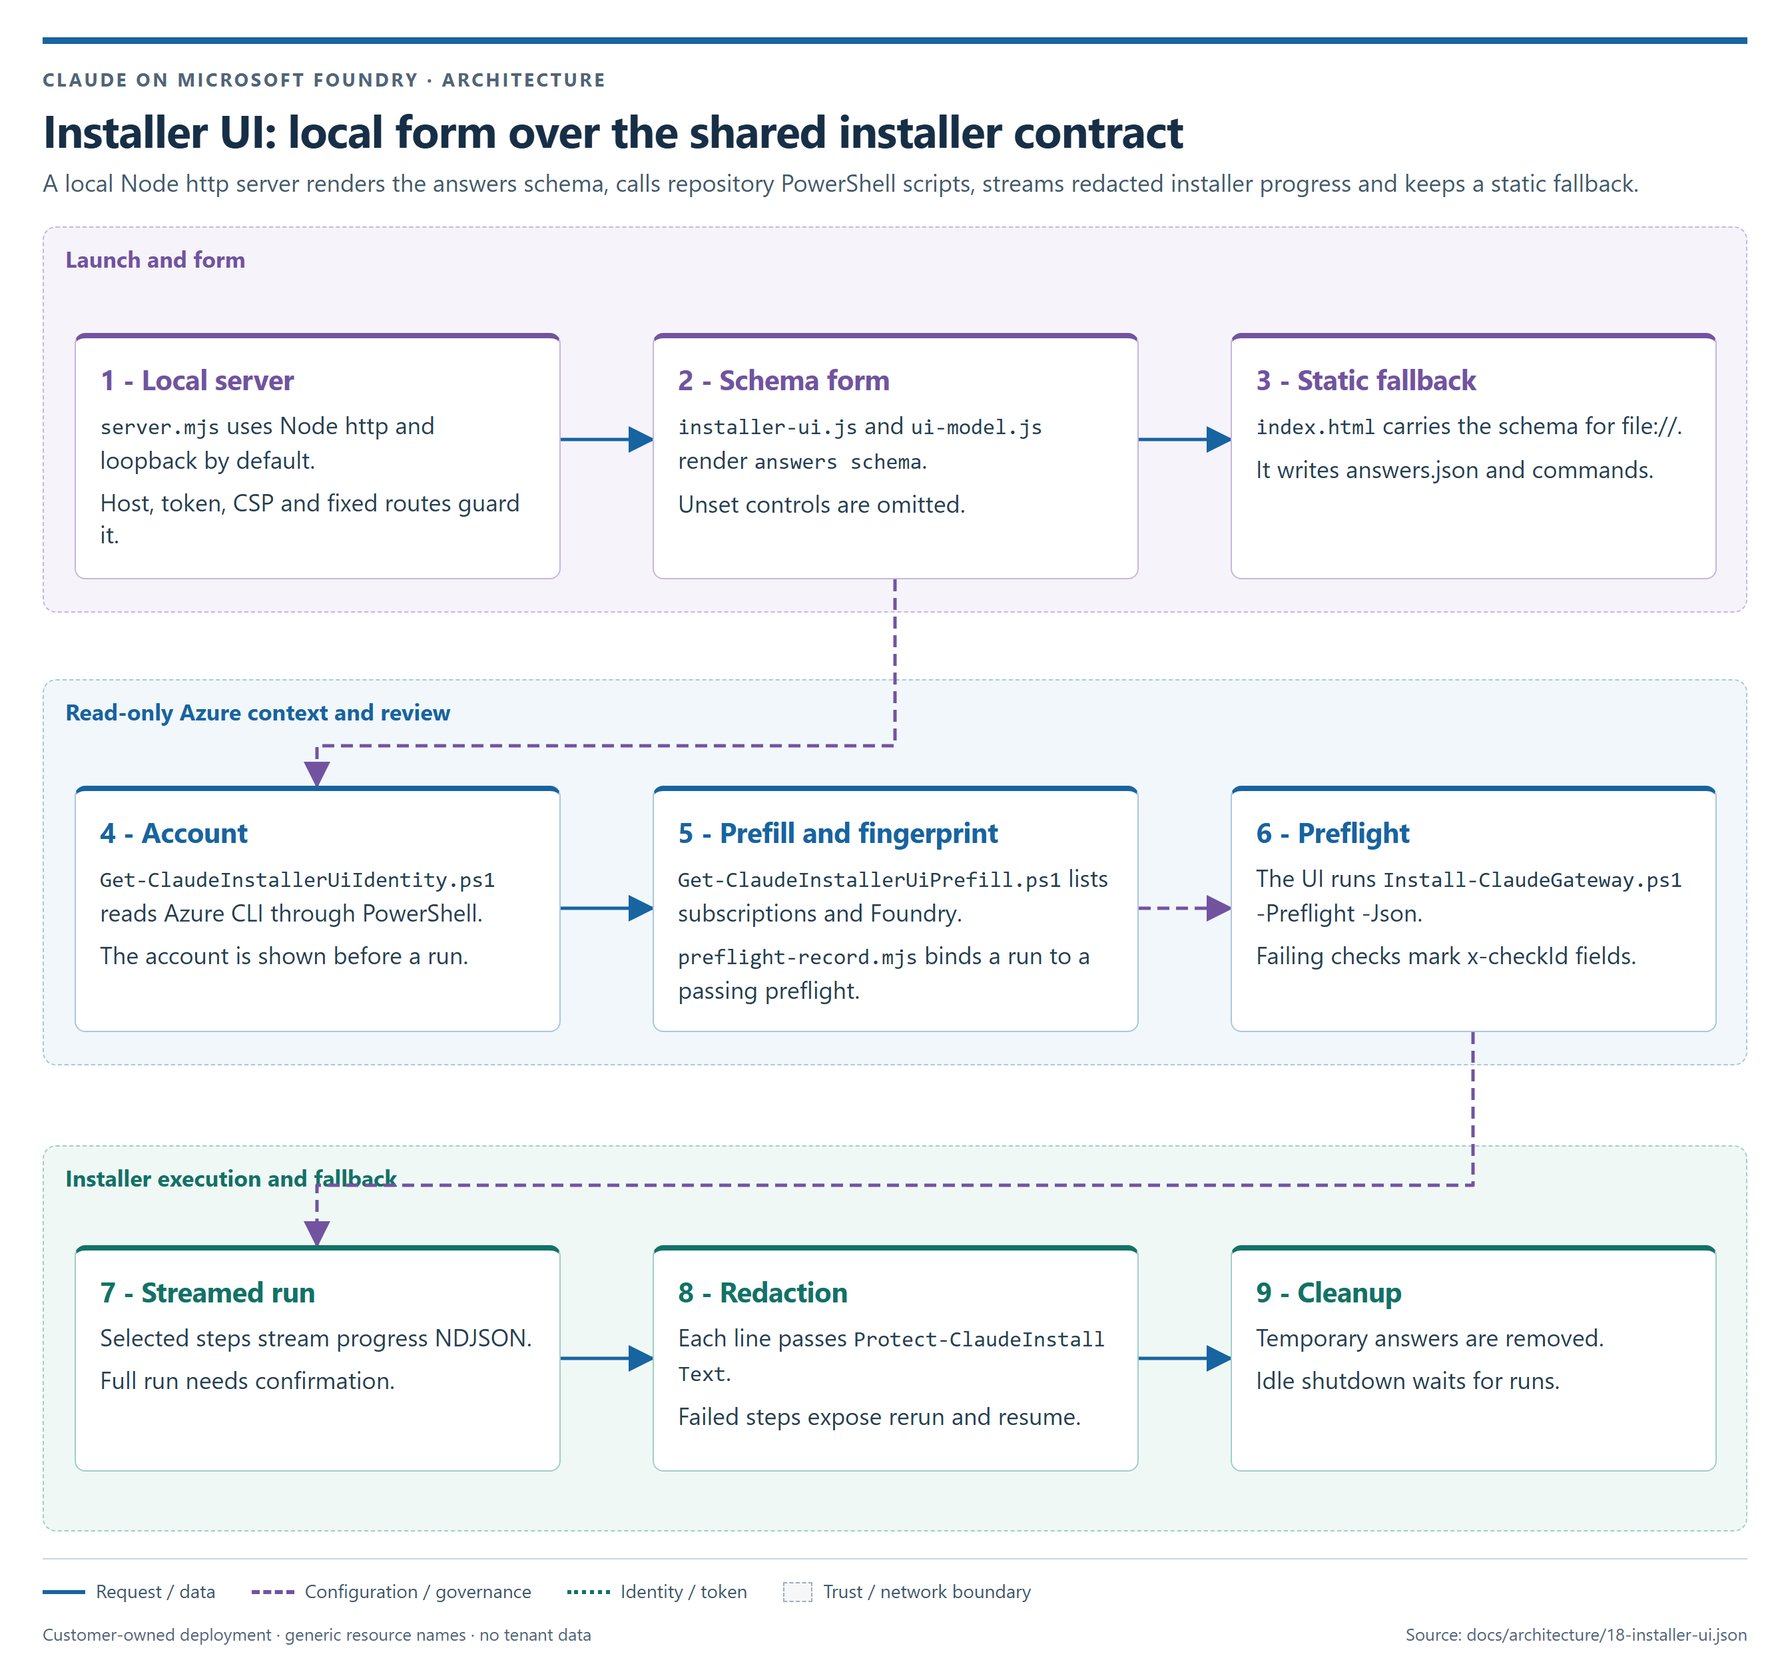
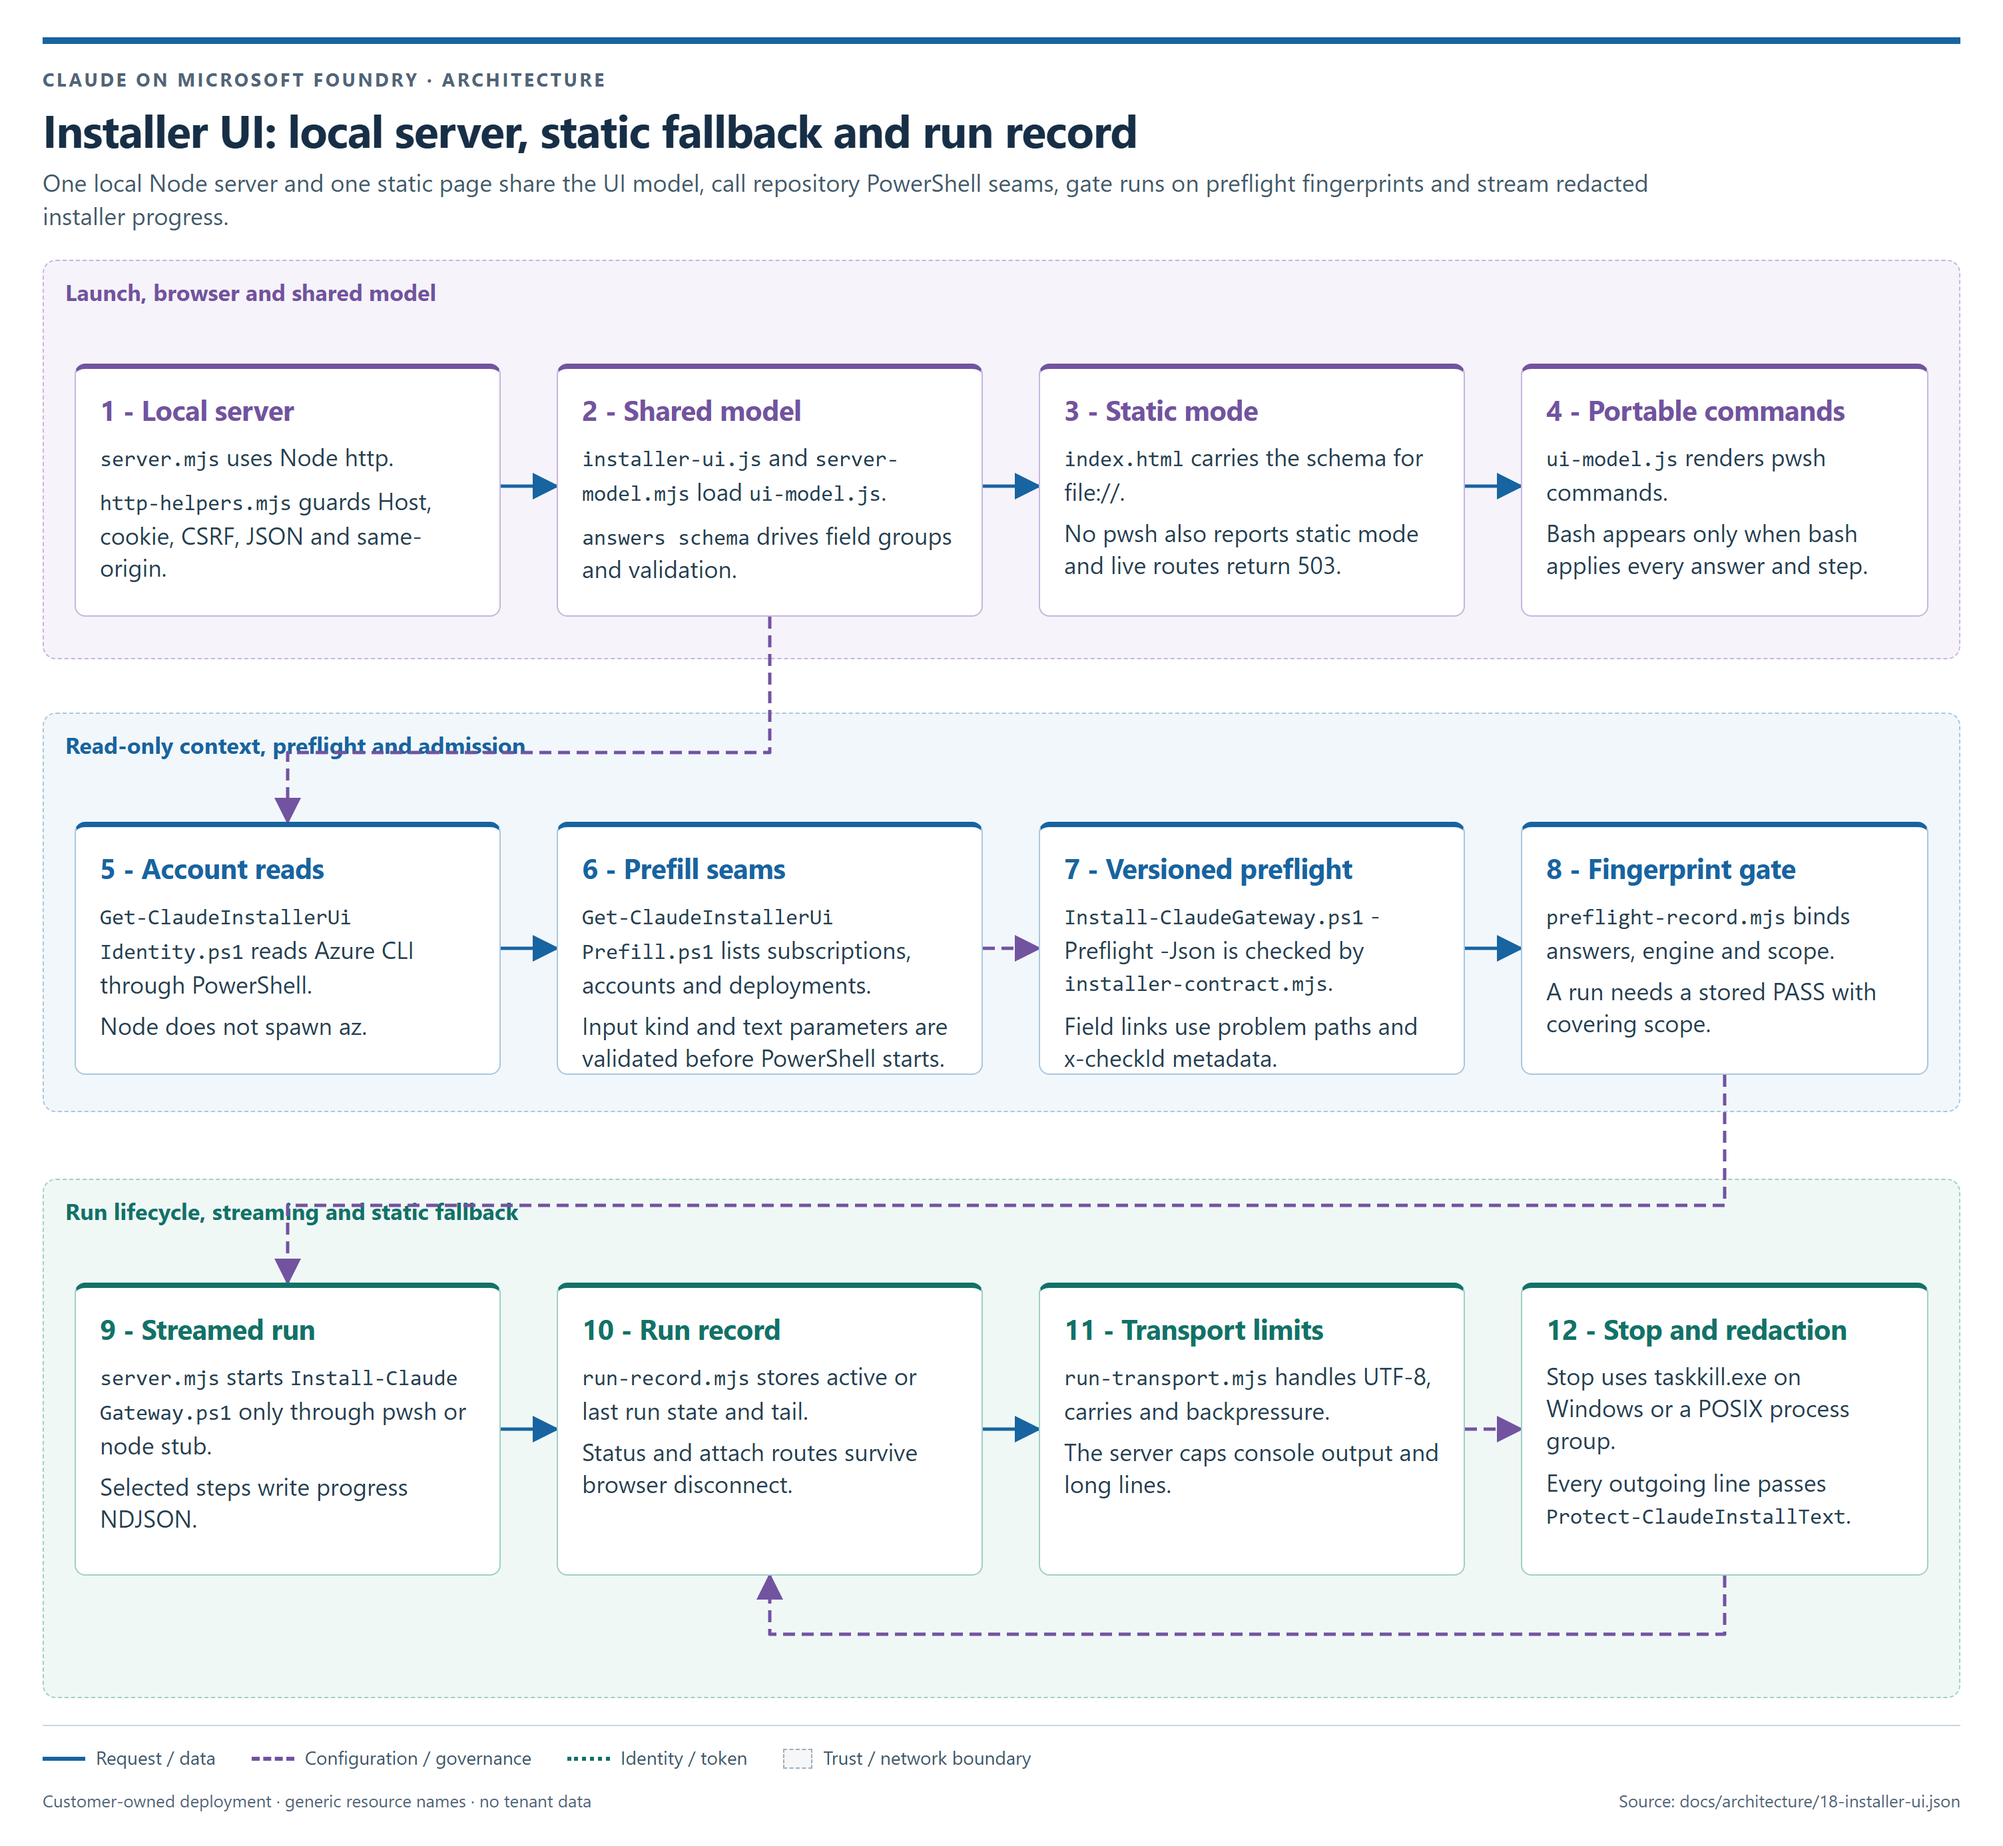
feat(p93): enforce installer UI process boundary
The charter now marks the Installer UI and seams as architecture-significant, the UI tests reject direct az or bash child-process spawns, the server removes its dead bash spawn branch and shares read-only child timeout handling, and the architecture diagram records the implemented run lifecycle.

Copilot-Session: 82d776f3-e908-44ed-80ff-1eb8b6c2fb34

diff --git a/docs/ARCHITECTURE.md b/docs/ARCHITECTURE.md
@@ -62,18 +62,39 @@ confirmed summary; the preflight, `-ListSteps` and the guided flow's plan only r
 
 ## Installer UI
 
-![Installer UI: a local Node server renders the answers schema, reads Azure through repository PowerShell, runs installer preflight and selected steps, streams redacted output and keeps a static fallback.](images/architecture/installer-ui.png)
+![Installer UI: a local Node server and static page share the UI model, gate runs on preflight fingerprints, keep a server-side run record and stream redacted installer progress.](images/architecture/installer-ui.png)
 
 Source: [18-installer-ui.json](architecture/18-installer-ui.json);
 [Installer UI](INSTALLER-UI.md); [ADR-0048](adr/0048-installer-ui-local-server.md).
 
 The installer UI adds an operator-side local server and static page. It adds no Azure resource and no
-hosted control plane. The browser form, static fallback and server all read
-`schemas/claude-gateway.answers.schema.json`; the static page carries a checked copy and a drift test
-compares it with the schema. Azure context and prefill reads go through repository PowerShell scripts,
-not Node-to-`az` calls. Installer execution stays in `Install-ClaudeGateway.ps1`, with selected steps,
-`-ProgressPath` and the existing redaction table. The server writes per-run temporary answer files and
-removes them after the request.
+hosted control plane. `tools/installer-ui/server.mjs` owns the HTTP routes, local session controls,
+PowerShell child process calls and idle lifecycle; `tools/installer-ui/http-helpers.mjs` owns Host,
+cookie, CSRF, same-origin and JSON-body helpers. The browser, server and tests share
+`tools/installer-ui/ui-model.js` through `tools/installer-ui/server-model.mjs`, while the static page
+serves the same `index.html` bytes as the live server (`tools/installer-ui/server.mjs:276`;
+`tools/installer-ui/http-helpers.mjs:61-119`; `tools/installer-ui/server-model.mjs:77-97`).
+
+Azure context and prefill reads go through `scripts/Get-ClaudeInstallerUiIdentity.ps1` and
+`scripts/Get-ClaudeInstallerUiPrefill.ps1`, not Node-to-`az` calls. Installer execution stays in
+`Install-ClaudeGateway.ps1`, with selected steps, `-ProgressPath` and the existing redaction table.
+The Node server starts only the configured PowerShell command, a Node test stub through
+`process.execPath` or `taskkill.exe` for Windows stop (`tools/installer-ui/server.mjs:48-82`;
+`tests/installer-ui-structure.test.mjs:66-77`).
+
+Preflight admission is fingerprinted by `tools/installer-ui/preflight-record.mjs`; a run needs a
+stored PASS for the same answers and a covering step scope. Versioned installer-interface checks live
+in `tools/installer-ui/installer-contract.mjs`, so malformed step lists and preflight payloads fail
+closed and malformed progress events become stream errors (`tools/installer-ui/preflight-record.mjs:28-61`;
+`tools/installer-ui/installer-contract.mjs:29-97`).
+
+Run state lives in `tools/installer-ui/run-record.mjs`, not in a browser connection. `GET
+/api/run/status` reports the active or last run, `GET /api/run/attach?after=<seq>` replays the tail
+and follows live events, and `POST /api/run/stop` stops the child process tree. `tools/installer-ui/run-transport.mjs`
+handles UTF-8 carries, progress-file offsets, NDJSON writes and backpressure; the server caps console
+bytes and line bytes before publishing output (`tools/installer-ui/run-record.mjs:10-149`;
+`tools/installer-ui/run-transport.mjs:21-80`; `tools/installer-ui/server.mjs:173-248`,
+`tools/installer-ui/server.mjs:553-589`).
 
 **Answers schema.** [`schemas/claude-gateway.answers.schema.json`](../schemas/claude-gateway.answers.schema.json)
 names each answer once, by its installer parameter, with the programs that apply it (`x-appliedBy`),
@@ -943,4 +964,3 @@ Review behavior against the implementation whenever a feature changes a componen
 flow, identity, schedule or network path. PNGs are repeatable with the same locked
 Playwright/browser and installed fonts; cross-platform font rasterization can differ
 without changing the architecture.
-

diff --git a/docs/status/P93.md b/docs/status/P93.md
@@ -1909,3 +1909,48 @@ gate passed with existing filesize and credential-shaped warning rows.
 Mutation proof: changing the U101 row id to U100 made `Test-DocReferences.ps1` fail with
 `unknown IDs are unique - 1 duplicate unknown id(s)` and `U100 appears on lines 44, 45`. The mutant
 was restored.
+
+### Group 6 D4 charter, spawn boundary and architecture, 2026-10-05
+
+`.ironclad/charter.json` now treats `tools/installer-ui/**` and
+`scripts/Get-ClaudeInstallerUi*.ps1` as architecture-significant paths. ADR-0048 records that charter
+decision because those paths hold the local HTTP server, browser model, PowerShell seams and
+Node-to-child-process boundary.
+
+`tests/installer-ui-structure.test.mjs` now reads every `.mjs` module under `tools/installer-ui/` and
+rejects exec-style child processes, direct `spawn('az', ...)`, `spawn('bash', ...)`, and returned or
+assigned `az`, `az.cmd` or `bash` spawn targets. The server's dead bash installer branch was removed.
+`runInstaller` and `runPowerShell` now share `collectChildOutput`, which owns stdout/stderr capture,
+timeout tree kill, redaction and 504 timeout errors.
+
+RED evidence: before the dead bash branch was removed, the new structural test failed with
+`server.mjs must not return az or bash as a spawn target`.
+
+Mutation proof: adding `if (false) spawn('az', ['account', 'show']);` inside `spawnInstallerArgs`
+made the structural test fail with `server.mjs must not spawn az or bash directly`. The mutant was
+restored.
+
+The installer UI architecture source now shows the implemented server modules, shared model, static
+mode, PowerShell seams, preflight fingerprint gate, contract adapter, run record, stream transport,
+stop path and redaction. `node .\guide\render-architecture.mjs` rendered
+`docs/images/architecture/installer-ui.png` and updated `docs/architecture/manifest.json`. The
+rendered PNG was inspected with the view tool; it shows three bands: launch/browser/shared model,
+read-only context/preflight/admission, and run lifecycle/streaming/static fallback.
+
+Targeted validation:
+
+```powershell
+$env:AZURE_CONFIG_DIR = '<isolated Azure CLI profile>'
+$env:CI = '1'
+$env:FORCE_COLOR = '0'
+pwsh -NoProfile -File .\tests\Test-InstallerUi.ps1
+pwsh -NoProfile -File .\tests\Test-Architecture.ps1
+pwsh -NoProfile -File .\tests\Test-DocReferences.ps1
+node .ironclad/gate.mjs --stage pre-commit
+```
+
+Results: Installer UI wrapper 98 checks, 0 failed, 77.1 s, with `$ExpectedNodeTests = 87`.
+Architecture holds with 36 assertions including isolated mutations. Documentation references passed
+with 44 guides and all mutations caught. The pre-commit gate passed with existing filesize and
+credential-shaped warning rows. The existing Installer UI duration weight was not changed because
+77.1 s is within 30 percent of the 90.1 s weight.

diff --git a/CHANGELOG.md b/CHANGELOG.md
@@ -76,6 +76,10 @@ exact streaming cache-creation detail remains **U13**.
   record while remaining Proposed pending the Cloud Shell live check.
   P93's unknown rows now use U100-U103, leaving P92's U90 and U91 rows unchanged, and the
   documentation guard rejects duplicate unknown ids.
+  The charter now treats the Installer UI server and PowerShell seams as architecture-significant,
+  the UI suite rejects direct `az` or bash child-process spawns from server modules, and the
+  Installer UI architecture diagram now shows the run record, transport, contract adapter,
+  fingerprint store, static mode and stop path.
 - **Installers read an answers file, check it before any change, run selected steps and write a progress stream (P92, phase 0).**
   One answers file, described by `schemas/claude-gateway.answers.schema.json`, feeds
   `Install-ClaudeGateway.ps1 -AnswersPath`, `install-claude-gateway.sh --answers-file` and

diff --git a/docs/adr/0048-installer-ui-local-server.md b/docs/adr/0048-installer-ui-local-server.md
@@ -117,6 +117,11 @@ PowerShell is the live engine for the Node server. Bash parity stays visible thr
 commands only when the bash installer applies the selected answers and steps
 (`tools/installer-ui/ui-model.js:94-115`; `tools/installer-ui/installer-ui.js:106-139`).
 
+The charter treats `tools/installer-ui/**` and `scripts/Get-ClaudeInstallerUi*.ps1` as
+architecture-significant paths. Those files hold the local HTTP server, browser model, PowerShell
+seams and Node-to-child-process boundary, so later changes to them need ADR-aware review
+(`.ironclad/charter.json:30-37`).
+
 ## Process record
 
 Implementation preceded this ADR in two slices. Commit `4871cbb` added the first local server before
